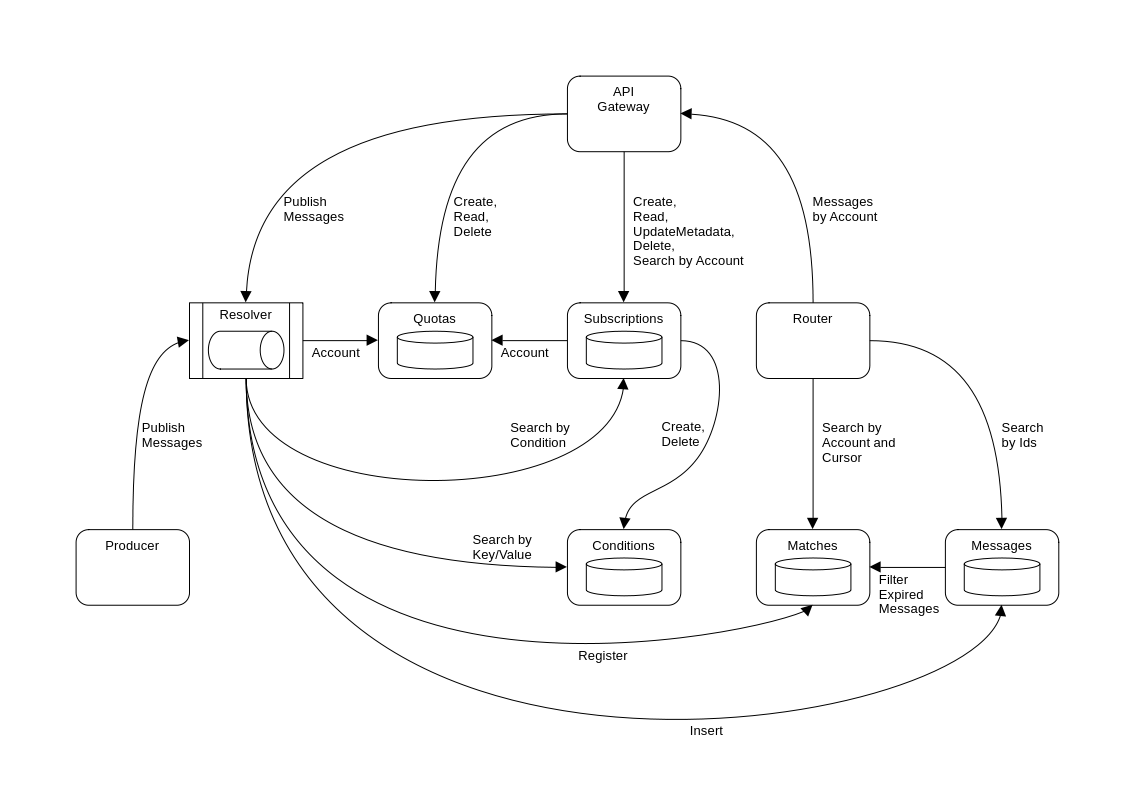
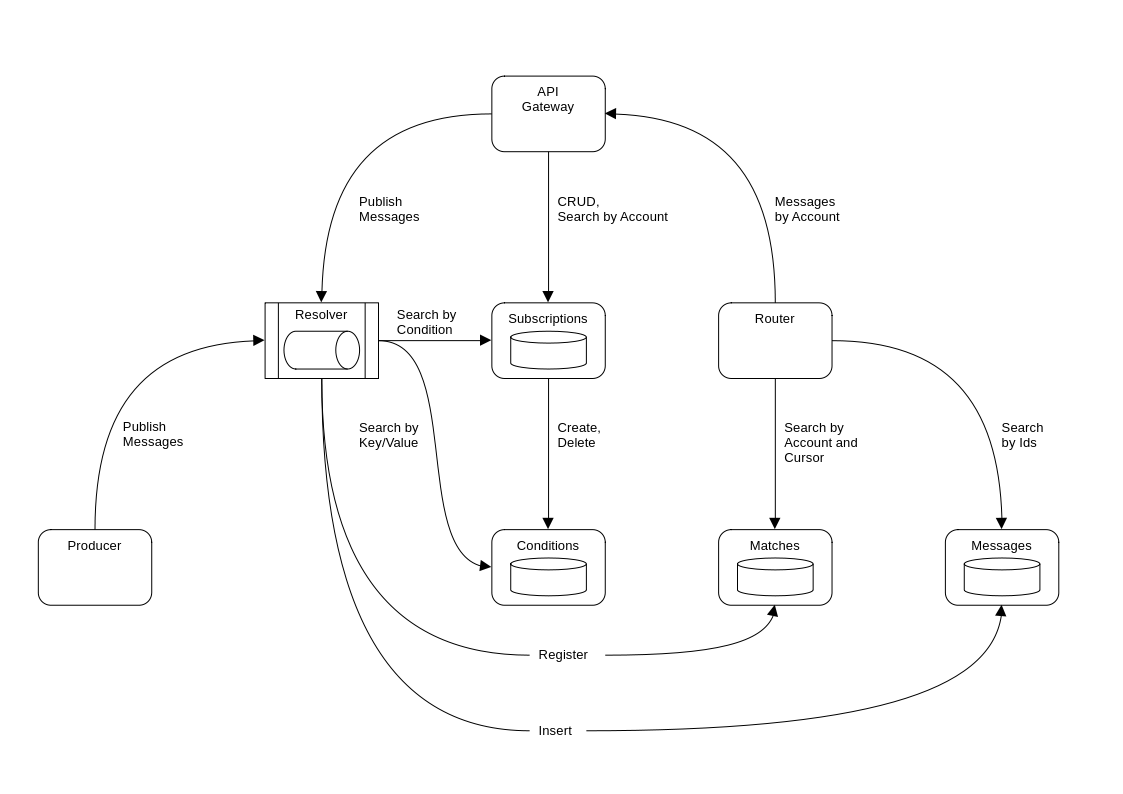
readme update

diff --git a/profile/README.md b/profile/README.md
@@ -105,7 +105,6 @@ The core of Awakari consist of:
   * Subscriptions
   * Matches
   * Messages
-  * Quotas
 * Stateless Services
   * Resolver
   * Router
@@ -127,7 +126,6 @@ sequenceDiagram
 
     actor Producer
     participant Resolver
-    participant Quotas
     participant Conditions
     participant Subscriptions
     participant Matches
@@ -136,15 +134,7 @@ sequenceDiagram
     Producer->>Resolver: Submit Messages
     
     activate Resolver
-    Resolver->>Quotas: Account Usage
-    deactivate Resolver
-    
-    activate Quotas 
-    Quotas->>Resolver: Accepted Count
-    deactivate Quotas
-    
-    activate Resolver
-    Resolver-->Producer: Accepted Count
+    Resolver-->>Producer: Accepted Count
     
     loop
     
